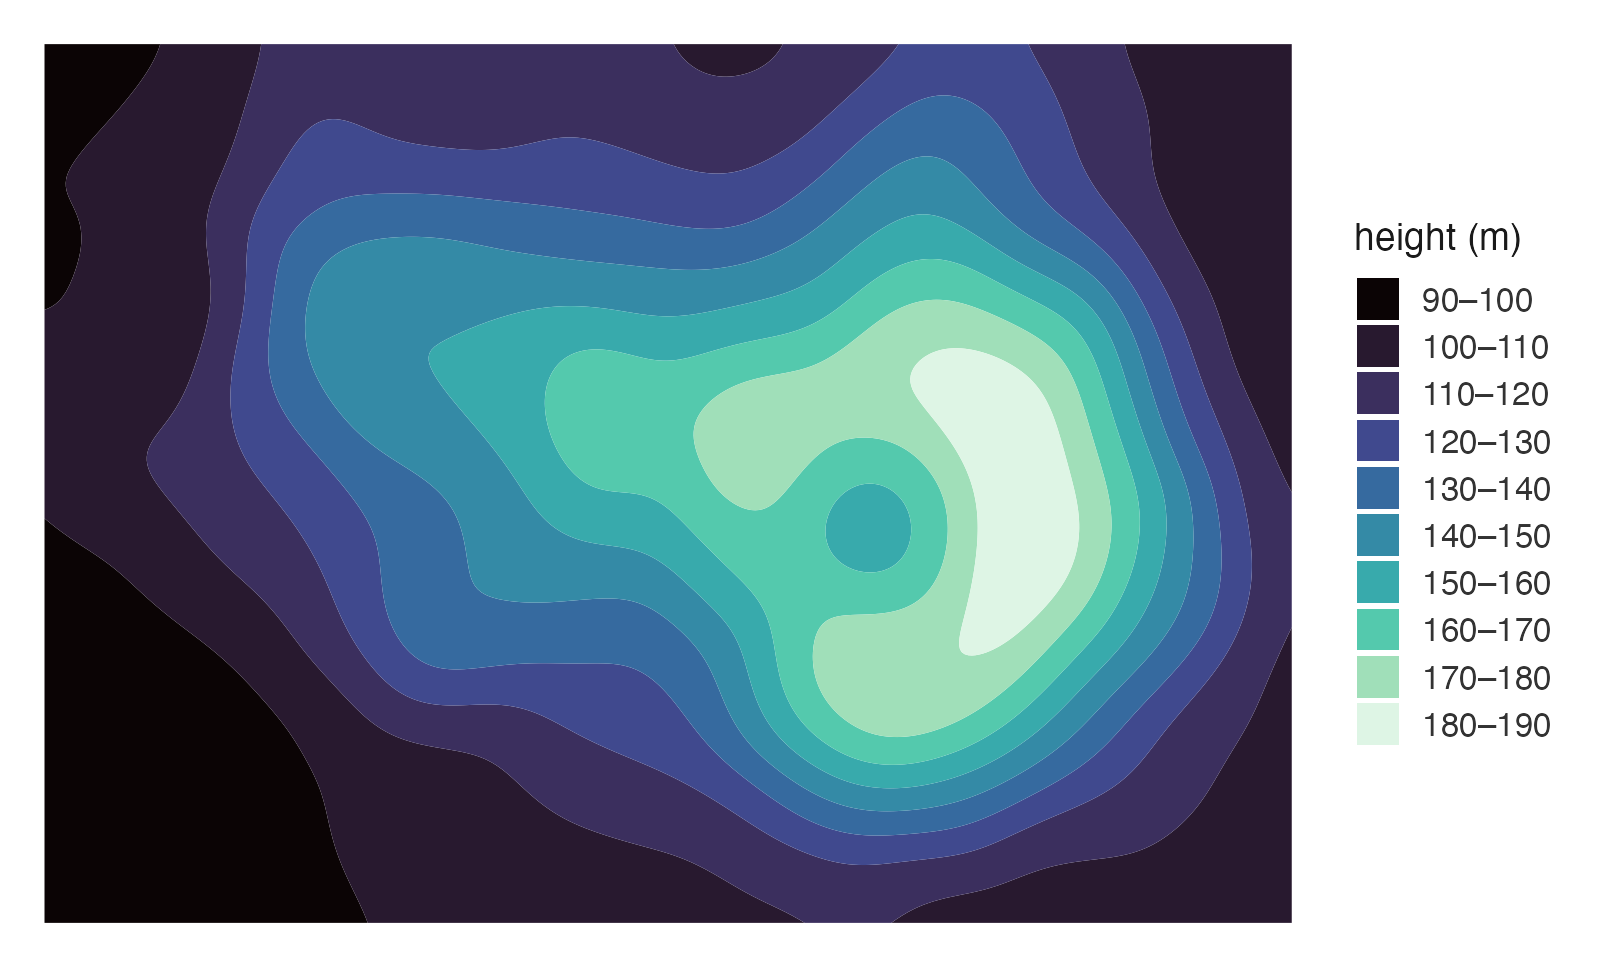
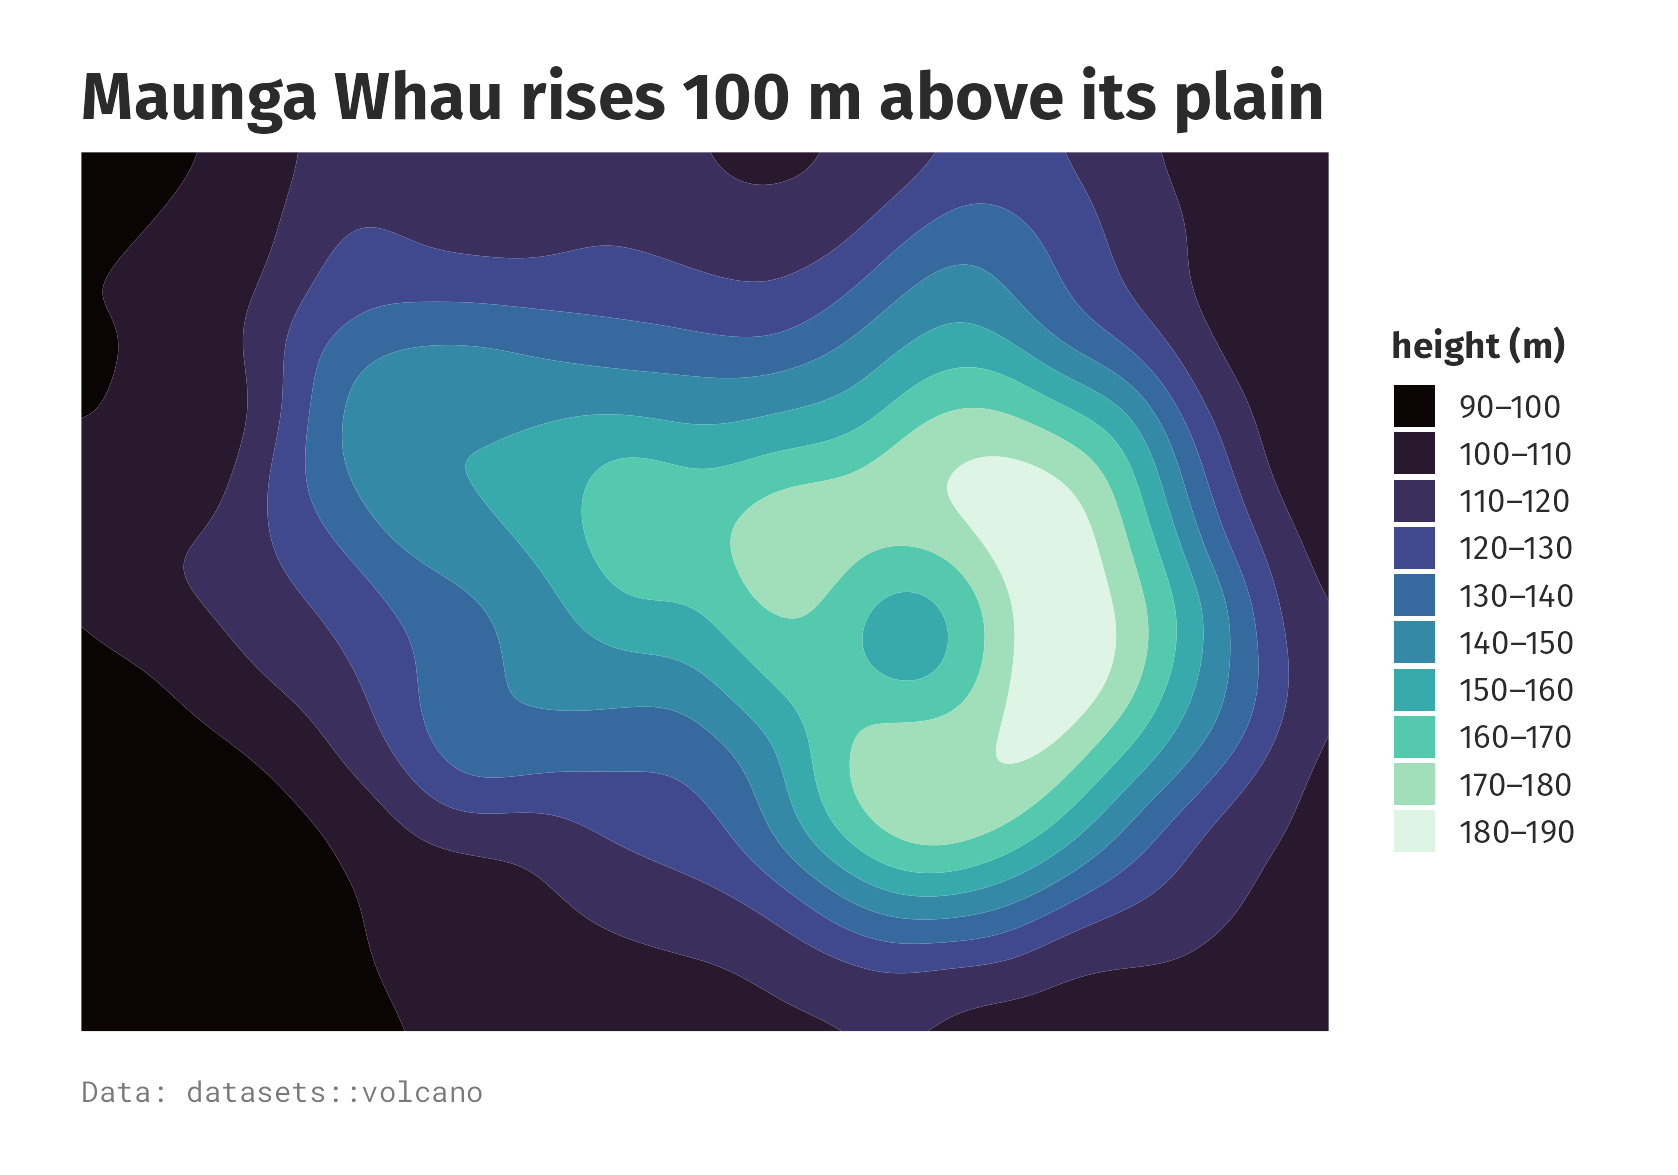
Rename ggwaffle() to calor_waffle(); Scherer-style look for every plot
- New palette, ink text and trees, bold left-aligned titles, mono captions
- options(ggcalor.family, ggcalor.mono) set fonts for the whole plot
- calor_size() measures text with ragg so system fonts size correctly
- README and gallery figures get finding titles, sources and one palette
- Ring gets its own README section at a readable size
- pkgdown workflow installs Fira Sans and Roboto Mono

diff --git a/README.md b/README.md
@@ -21,8 +21,8 @@ add a theme or a scale. *Calor* is Spanish for heat.
   <tr>
     <td align="center" width="25%"><a href="#clustering-splits-and-annotations"><img src="man/figures/readme-dune.png" alt="Clustered heatmap"><br><b>Clustering</b></a><br><sub>trees, splits and tracks</sub></td>
     <td align="center" width="25%"><a href="#oncoprints"><img src="man/figures/readme-oncoprint.png" alt="Oncoprint"><br><b>Oncoprints</b></a><br><sub>discrete fills and memo sort</sub></td>
-    <td align="center" width="25%"><a href="#beyond-heatmaps"><img src="man/figures/readme-ring.png" alt="Ring heatmap"><br><b>Rings</b></a><br><sub>the grid bent into a circle</sub></td>
-    <td align="center" width="25%"><a href="#beyond-heatmaps"><img src="man/figures/readme-waffle.png" alt="Waffle chart"><br><b>Waffles</b></a><br><sub>unit charts on the same grid</sub></td>
+    <td align="center" width="25%"><a href="#rings"><img src="man/figures/readme-ring.png" alt="Ring heatmap"><br><b>Rings</b></a><br><sub>the grid bent into a circle</sub></td>
+    <td align="center" width="25%"><a href="#surfaces-and-waffles"><img src="man/figures/readme-waffle.png" alt="Waffle chart"><br><b>Waffles</b></a><br><sub>unit charts on the same grid</sub></td>
   </tr>
 </table>
 
@@ -67,18 +67,21 @@ vaccine was licensed, with yearly totals on top:
 
 ```r
 library(ggcalor)
+# Optional: the fonts used in these figures (any installed font works).
+options(ggcalor.family = "Fira Sans", ggcalor.mono = "Roboto Mono")
 
 era <- ifelse(as.integer(colnames(measles)) < 1963, "before vaccine", "after vaccine")
 
 ggcalor(measles, cell_size = 2.6, cell_gap = 0.06, border = NA) +
   calor_split(cols = factor(era, c("before vaccine", "after vaccine")), gap = 2) +
-  calor_margin(top = "sum", size = 14) +
-  # Years with no reported cases are drawn in light grey.
+  calor_margin(top = "sum", size = 14, fill = "#B3202A") +
+  # Years with no reported cases are drawn in a pale warm tone.
   scale_fill_fermenter(palette = "YlOrRd", direction = 1, transform = "log10",
                        breaks = 10^(1:5), labels = scales::label_comma(),
-                       na.value = "grey95") +
-  labs(title = "Measles cases in the United States, 1930–2001",
-       subtitle = "The vaccine was licensed in 1963", fill = "cases")
+                       na.value = "#F4F1EB") +
+  labs(title = "Measles all but vanished after the 1963 vaccine",
+       subtitle = "Reported measles cases per US state and year, 1930–2001",
+       caption = "Data: Project Tycho", fill = "cases")
 ```
 
 ## Why ggcalor
@@ -116,12 +119,14 @@ sites <- data.frame(management = dune.env$Management, moisture = dune.env$Moistu
 levels(sites$management) <- c("biological", "hobby", "nature reserve", "standard")
 
 ggcalor(t(dune), cell_size = 4.2) +
-  calor_dendro(rows = TRUE, cols = TRUE, k = 3, highlight = TRUE) +
+  calor_dendro(rows = TRUE, cols = TRUE) +
   calor_split(cols = 3) +
   calor_anno(top = sites) +
-  calor_margin(right = "mean") +
-  scale_fill_distiller(palette = "Greens", direction = 1) +
-  labs(title = "Plant cover in 20 Dutch dune meadows", fill = "cover")
+  calor_margin(right = "mean", fill = "#3B8F5C") +
+  scale_fill_distiller(palette = "YlGn", direction = 1) +
+  labs(title = "Wet meadows grow their own plant community",
+       subtitle = "Cover of 30 plant species in 20 Dutch dune meadows",
+       caption = "Data: vegan::dune", fill = "cover")
 ```
 
 <p align="center"><img src="man/figures/readme-dune.png" alt="Plant cover in 20 dune meadows, clustered into three groups"></p>
@@ -136,8 +141,8 @@ which makes mutually exclusive alterations easy to see: KRAS is altered in 55
 tumours and BRAF in 18, but only 5 tumours have both.
 
 ```r
-alt_colours <- c(mutation = "#2E7D32", amplification = "#C62828",
-                 `deep deletion` = "#1565C0", `mutation + amplification` = "#8E24AA")
+alt_colours <- c(mutation = "#3B8F5C", amplification = "#E4572E",
+                 `deep deletion` = "#2E86AB", `mutation + amplification` = "#8E5BA8")
 
 n_altered <- rowSums(!is.na(luad_alterations))
 m <- luad_alterations[order(n_altered, decreasing = TRUE)[1:10], ]
@@ -146,24 +151,47 @@ m <- m[, colSums(!is.na(m)) > 0]
 ggcalor(m, cell_size = 2.6, cell_gap = 0.25, border = NA, labels = "rows") +
   calor_order(rows = "sum", cols = "memo") +
   calor_margin(right = "sum", top = "sum", size = 10) +
-  scale_fill_manual(values = alt_colours, breaks = names(alt_colours), na.value = "grey93") +
-  labs(title = "RAS/RAF/MEK/JNK pathway alterations in lung adenocarcinoma", fill = NULL) +
+  scale_fill_manual(values = alt_colours, breaks = names(alt_colours), na.value = "#F1EEE8") +
+  labs(title = "KRAS and BRAF are rarely altered in the same tumour",
+       subtitle = "RAS/RAF/MEK/JNK pathway alterations in 106 lung adenocarcinomas",
+       caption = "Data: TCGA via cBioPortal", fill = NULL) +
   theme(legend.position = "bottom")
 ```
 
 <p align="center"><img src="man/figures/readme-oncoprint.png" alt="Oncoprint of RAS/RAF/MEK/JNK pathway alterations"></p>
 
-### Beyond heatmaps
+### Rings
 
-The same grid also draws smooth surfaces, rings and waffle charts.
+`calor_radial()` bends the grid into a ring. Long data goes straight in
+through `rows`, `cols` and `value`: here, the months in which each of 130
+countries gained members of a society, coloured by their main interest. The
+country names sit around the ring, the months in the gap and the legend in
+the hole.
+
+```r
+ggcalor(dvs_members, rows = "month", cols = "country", value = "trait",
+        cell_size = 3.6, border = "white", na_fill = "#EFECE6") +
+  calor_radial(inner.radius = 0.42, gap = 0.2, label_size = 8) +
+  scale_fill_manual(values = c(Data = "#F3A712", Visualization = "#E4572E", Society = "#2E86AB"),
+                    breaks = c("Data", "Visualization", "Society"), na.value = "#EFECE6") +
+  labs(title = "A year of new members, country by country",
+       subtitle = "Months in which each country gained members, by their main interest",
+       caption = "Simulated memberships; real country names", fill = NULL) +
+  # The country names reach past the ring; keep them clear of the titles.
+  theme(plot.subtitle = element_text(margin = margin(b = 30)),
+        plot.caption = element_text(margin = margin(t = 30)))
+```
+
+<p align="center"><img src="man/figures/readme-ring.png" alt="Ring of 130 countries by month" width="85%"></p>
+
+### Surfaces and waffles
+
+The same grid also draws smooth surfaces and waffle charts.
 
 <table>
 <tr>
-<td width="50%" align="center"><img src="man/figures/readme-volcano.png" alt="Contour surface of the Maunga Whau volcano"><br><code>smooth = &quot;contour&quot;</code></td>
-<td width="50%" align="center"><img src="man/figures/readme-ring.png" alt="Ring of 130 countries by month"><br><code>calor_radial()</code></td>
-</tr>
-<tr>
-<td colspan="2" align="center"><img src="man/figures/readme-waffle.png" alt="Waffle chart of penguin species on three islands" width="70%"><br><code>ggwaffle()</code></td>
+<td width="45%" align="center"><img src="man/figures/readme-volcano.png" alt="Contour surface of the Maunga Whau volcano"><br><code>smooth = &quot;contour&quot;</code></td>
+<td width="55%" align="center"><img src="man/figures/readme-waffle.png" alt="Waffle chart of penguin species on three islands"><br><code>calor_waffle()</code></td>
 </tr>
 </table>
 
@@ -185,7 +213,7 @@ The same grid also draws smooth surfaces, rings and waffle charts.
 | `calor_radial()` | Bend the grid into a ring |
 | `calor_interactive()`, `calor_girafe()` | Tooltips and linked highlighting through ggiraph |
 | `calor_save()`, `calor_size()` | Save at, or report, the natural size |
-| `ggwaffle()` | Unit charts on the same cell grid |
+| `calor_waffle()` | Unit charts on the same cell grid |
 
 The [gallery](https://loukesio.github.io/ggcalor/articles/gallery.html) has
 a recipe for each of these.
